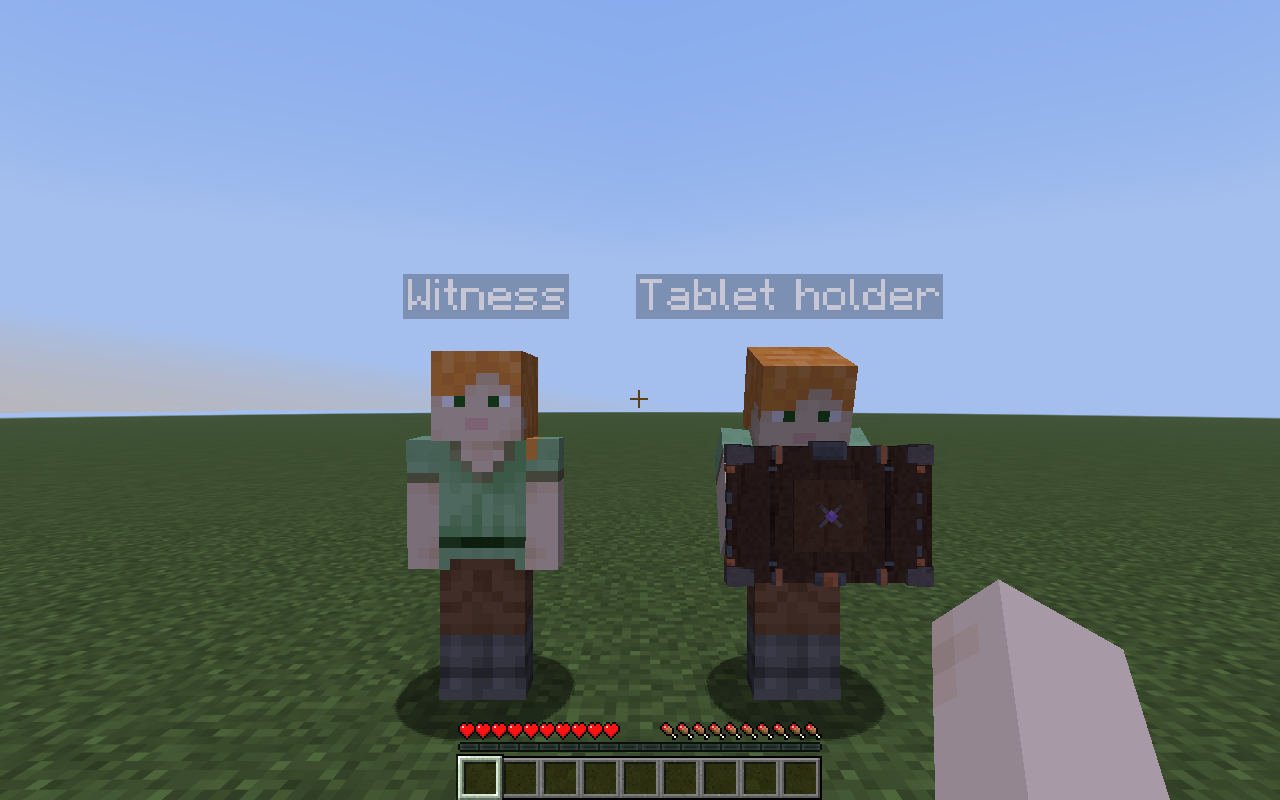
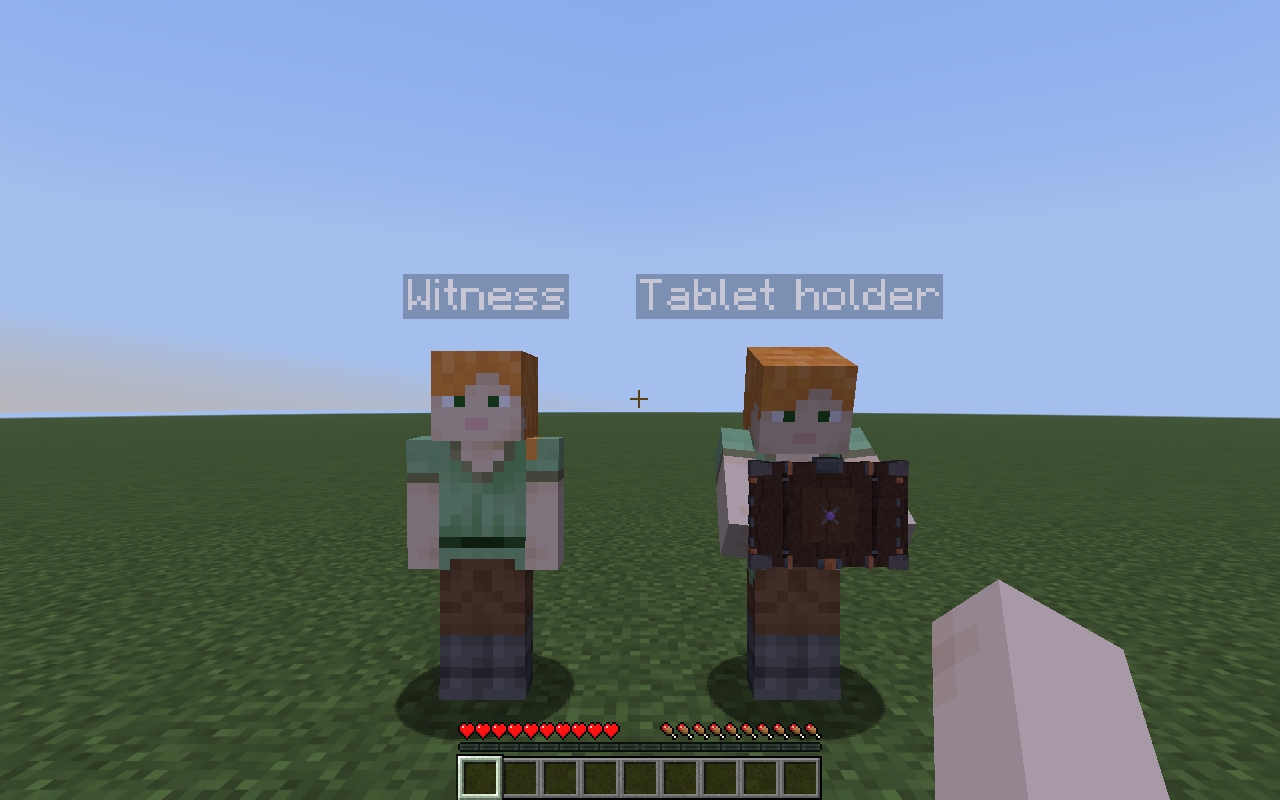
Reduce tablet size in third-person view only

Changed region(s): [[0.5625, 0.5312, 0.75, 0.75]]

diff --git a/src/main/java/dev/questplus/fabric/client/TabletPoseClient.java b/src/main/java/dev/questplus/fabric/client/TabletPoseClient.java
@@ -127,7 +127,7 @@ public final class TabletPoseClient {
             pose.rotateDegrees(Axis.ZP,rotation.z());
             pose.rotateDegrees(Axis.YP,-rotation.y());
             pose.rotateDegrees(Axis.XP,-rotation.x());
-            pose.scale(-.65f*scale.x(),.65f*scale.y(),.65f*scale.z());
+            pose.scale(-.5f*scale.x(),.5f*scale.y(),.5f*scale.z());
             nodes.submitModel(model,Unit.INSTANCE,pose,TabletRenderer.texture(),light,OverlayTexture.NO_OVERLAY,0);
             pose.popPose();
         }

diff --git a/docs/reviews/native-tablet.md b/docs/reviews/native-tablet.md
@@ -99,3 +99,5 @@ python questplus-assets/tools/export_third_person.py --check
 ```
 
 Validation serveur : quatre GameTests obligatoires passent ; `integrationTest` relit les sauvegardes après arrêt et vérifie 140 UUID et les historiques de récompenses/équipes. La scène graphique vérifie les paquets de pose et le renderer de deux avatars locaux ; une partie avec deux vrais clients, les shaders tiers et Vulkan restent à contrôler.
+
+Réglage demandé ensuite le 4 novembre : échelle de la tablette extérieure seule passée de 0,65 à 0,50 (environ 23 % plus petite), autour du même pivot. Les bras, les pistes d’animation et la tablette subjective restent inchangés. `build runClientGameTest` passe (1 min 21 s), avec les captures de face/profil contrôlées et actualisées dans ce rapport.
